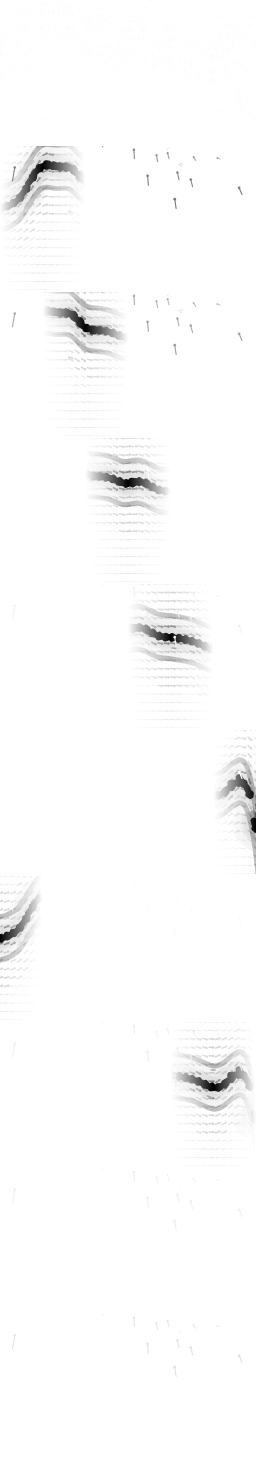
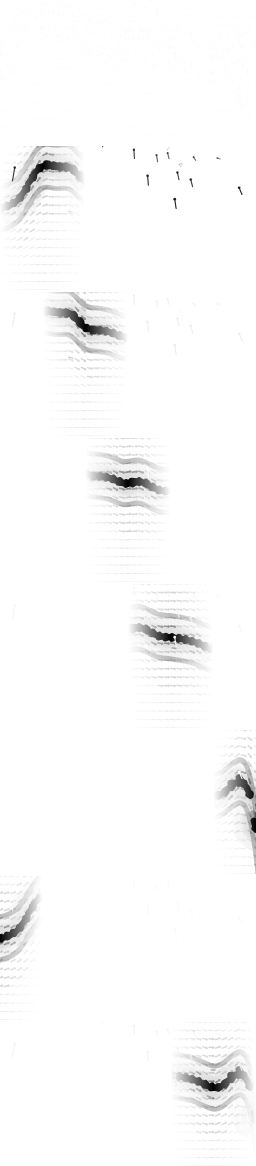
The look picker's stills are drawn again after patterns got their Tile size
16347171a gave every pattern the Tile size slider and changed the drawing
code the shipped stills are fingerprinted against, so lookStillsFresh
refused them on main. `pnpm stills:looks` drew the whole set again from the
looks as the app draws them now: two stills moved (Slope, many colours, dark
and light), every other one came out byte for byte the same.

diff --git a/src/renderer/graph/lookStills/shippedStillFiles.ts b/src/renderer/graph/lookStills/shippedStillFiles.ts
@@ -934,8 +934,6 @@ const SHIPPED_STILL_FILES: Readonly<Record<string, IShippedStillFile>> = {
       'stop-6',
       'stop-0',
       'stop-5',
-      'mate-1',
-      'edge',
     ],
   },
   'slope auto dark one': { url: slopeAutoDarkOne, roles: ['stop'] },
@@ -950,7 +948,6 @@ const SHIPPED_STILL_FILES: Readonly<Record<string, IShippedStillFile>> = {
       'stop-0',
       'stop-5',
       'ink',
-      'mate-6',
     ],
   },
   'slope auto light one': { url: slopeAutoLightOne, roles: ['stop', 'ink'] },
